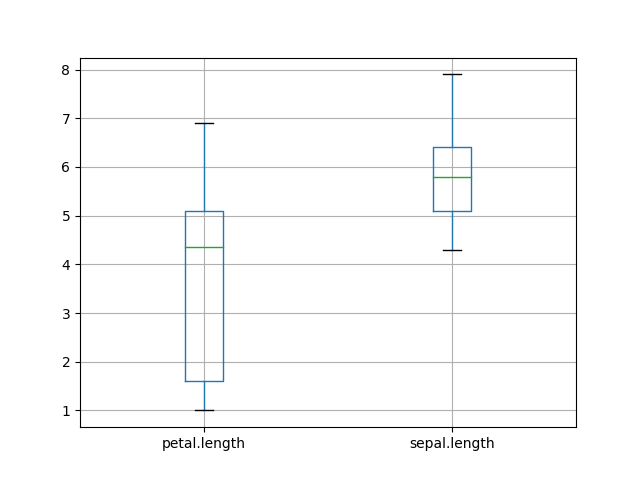
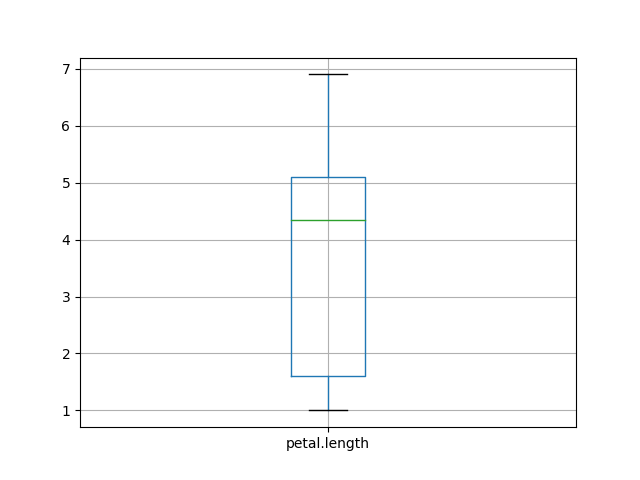
fixed testfiles

diff --git a/test_main.py b/test_main.py
@@ -8,19 +8,20 @@ from  lib import calc_desc_stat, boxplot_of_cols
 
 def test_calc_desc_for_iris():
     data = pd.read_csv("datasets/iris.csv")
-    results = calc_desc_stat(data['petal.length'])
+    assert calc_desc_stat(None) == "There is nothing to calculate, please input a dataframe column"
+    output=calc_desc_stat(data['petal.length'])
+    assert round(output[1],2) == 3.76
+
 
 
 
 def test_does_graph_plot():
-    import os
-    df1 = pd.read_csv('datasets/iris.csv')
-    test_dir = os.path.dirname(__file__)
-    csv_file_path = os.path.join(test_dir, 'datasets', 'iris.csv')
-    df1 = pd.read_csv(csv_file_path)
-    plot_file_path = os.path.join(test_dir, 'sepal vs petal')
-    boxplot_of_cols(df1, 'petal.length', 'sepal.length', file_name=plot_file_path)
-    assert os.path.exists(plot_file_path)
+    break_list = [1,2,3]
+    result = boxplot_of_cols(None, col1='A', col2='B')
+    assert result == "This is the wrong input, you have <class 'NoneType'>"
+
+    output = boxplot_of_cols(break_list, col1='A', col2='B')
+    assert output == "This is the wrong input, you have <class 'list'>"
 
 
 if __name__ == '__main__':

diff --git a/lib.py b/lib.py
@@ -3,14 +3,17 @@ import matplotlib.pyplot as plt
 
 
 def calc_desc_stat(dataset_col):
+    if dataset_col is None: 
+        return "There is nothing to calculate, please input a dataframe column"
     out=dataset_col.describe()
     return out
 
-def boxplot_of_cols(df_wanted, col1=None, col2=None, col3=None, file_name=None):
-    if df_wanted is None:
-        print("No DataFrame provided. Cannot create box plot.")
-        return
-
+def boxplot_of_cols(df_wanted=None, col1=None, col2=None, col3=None, file_name=None):
+    
+    if isinstance(df_wanted, pd.DataFrame):
+        print("good to go")
+    else:
+        return "This is the wrong input, you have " + str(type(df_wanted))
     list_of_columns = []
     if col1:
         list_of_columns.append(col1)

diff --git a/test_lib.py b/test_lib.py
@@ -70,12 +70,11 @@ def test_quantiles():
 #here will will test the graph
 
 def test_graph():
-    result = boxplot_of_cols(None, col1='A', col2='B')
-    assert result is None
-    data = {'X': [1, 2, 3], 'Y': [4, 5, 6]}
-    df = pd.DataFrame(data)
-    boxplot_of_cols(df, col1='X', file_name='testfunctionality')
-    assert os.path.exists('testfunctionality')
+    import os
+    
+    data = pd.read_csv("datasets/iris.csv")
+    boxplot_of_cols(data,'petal.length')
+    assert os.path.isfile("boxplot.png")
 
 
 if __name__ == "__main__":

diff --git a/stat1.py b/stat1.py
@@ -5,8 +5,8 @@ from lib import calc_desc_stat, boxplot_of_cols
 df1 = pd.read_csv('datasets/iris.csv')
 
 out=calc_desc_stat(df1['petal.length'])
+print(out)
 
-
-figure=boxplot_of_cols(df1,'petal.length', 'sepal.length', file_name='test')
+boxplot_of_cols(df1,'petal.length', 'sepal.length', file_name='test')
 
 
